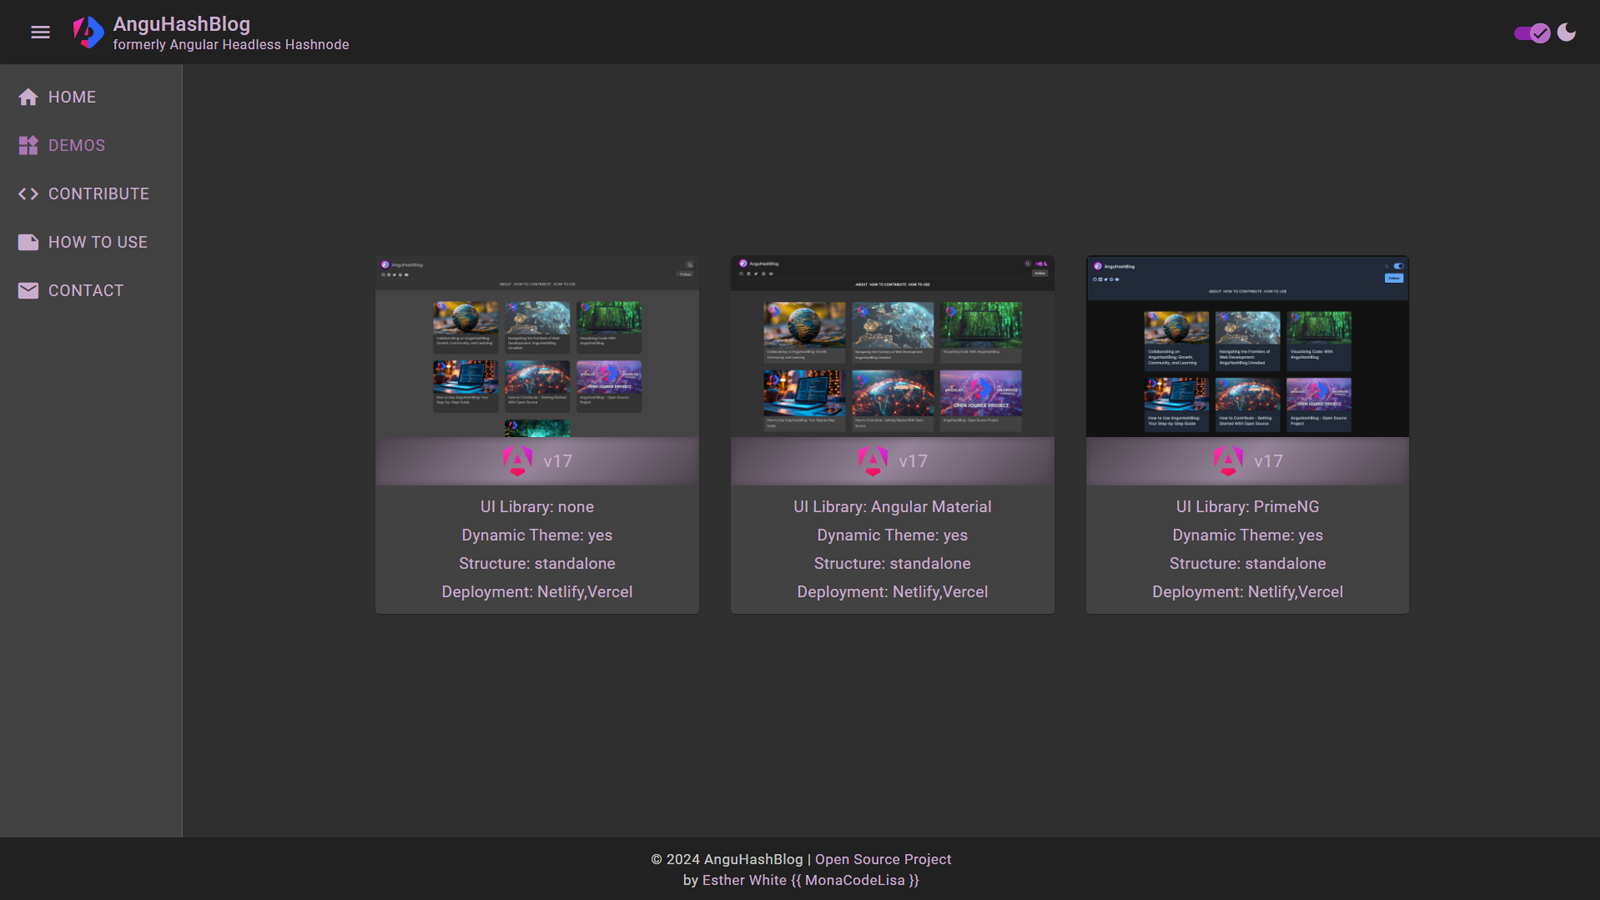
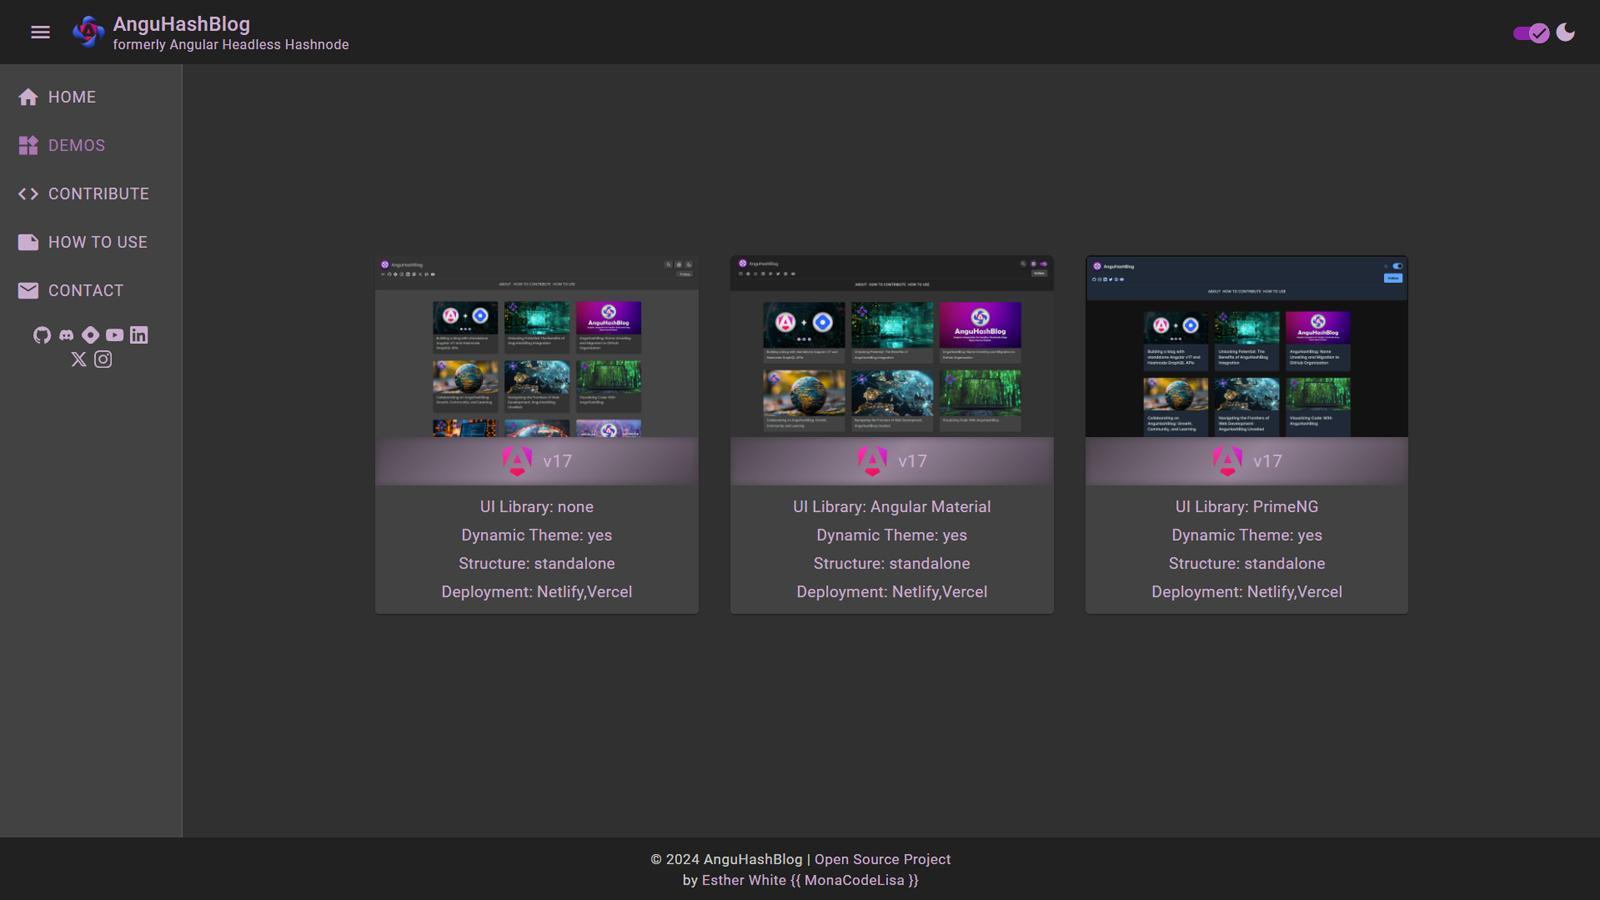
more images

diff --git a/anguhashblog-app/src/app/components/demos/demos.component.html b/anguhashblog-app/src/app/components/demos/demos.component.html
@@ -5,9 +5,9 @@
         <mat-card>
           <mat-card-header>
             @if (themeService.themeSignal() === 'dark') {
-              <img ngSrc="{{site.imageDark}}" alt="anguhashblog demo dark" height="100" width="100">
+              <img ngSrc="{{site.imageDark}}" alt="anguhashblog demo dark" height="57" width="100">
             } @else {
-              <img ngSrc="{{site.imageLight}}" alt="anguhashblog demo light" height="100" width="100">
+              <img ngSrc="{{site.imageLight}}" alt="anguhashblog demo light" height="57" width="100">
             }
           </mat-card-header>
 
